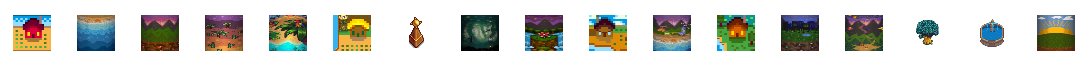
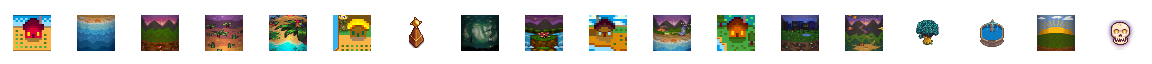
add Chaos Obelisk support

diff --git a/MagicScepter/Mods/ModManager.cs b/MagicScepter/Mods/ModManager.cs
@@ -16,6 +16,7 @@ namespace MagicScepter.Mods
         SupportedMod.GenericModConfigMenu => IsModLoaded("spacechase0.GenericModConfigMenu"),
         SupportedMod.PelicanTownObelisk => IsModLoaded("Tikamin557.CP.PelicanTownObelisk_NEW"),
         SupportedMod.GrampFieldsWarp => IsModLoaded("lamplight.GrampFieldsWarp"),
+        SupportedMod.ChaosObelisk => IsModLoaded("TheSamePlant.ChaosObelisk_ChaosObelisk"),
         _ => false,
       };
     }

diff --git a/MagicScepter/Mods/SupportedMod.cs b/MagicScepter/Mods/SupportedMod.cs
@@ -11,6 +11,7 @@ namespace MagicScepter.Mods
     StardewValleyExpanded,
     GenericModConfigMenu,
     PelicanTownObelisk,
-    GrampFieldsWarp
+    GrampFieldsWarp,
+    ChaosObelisk
   }
 }
